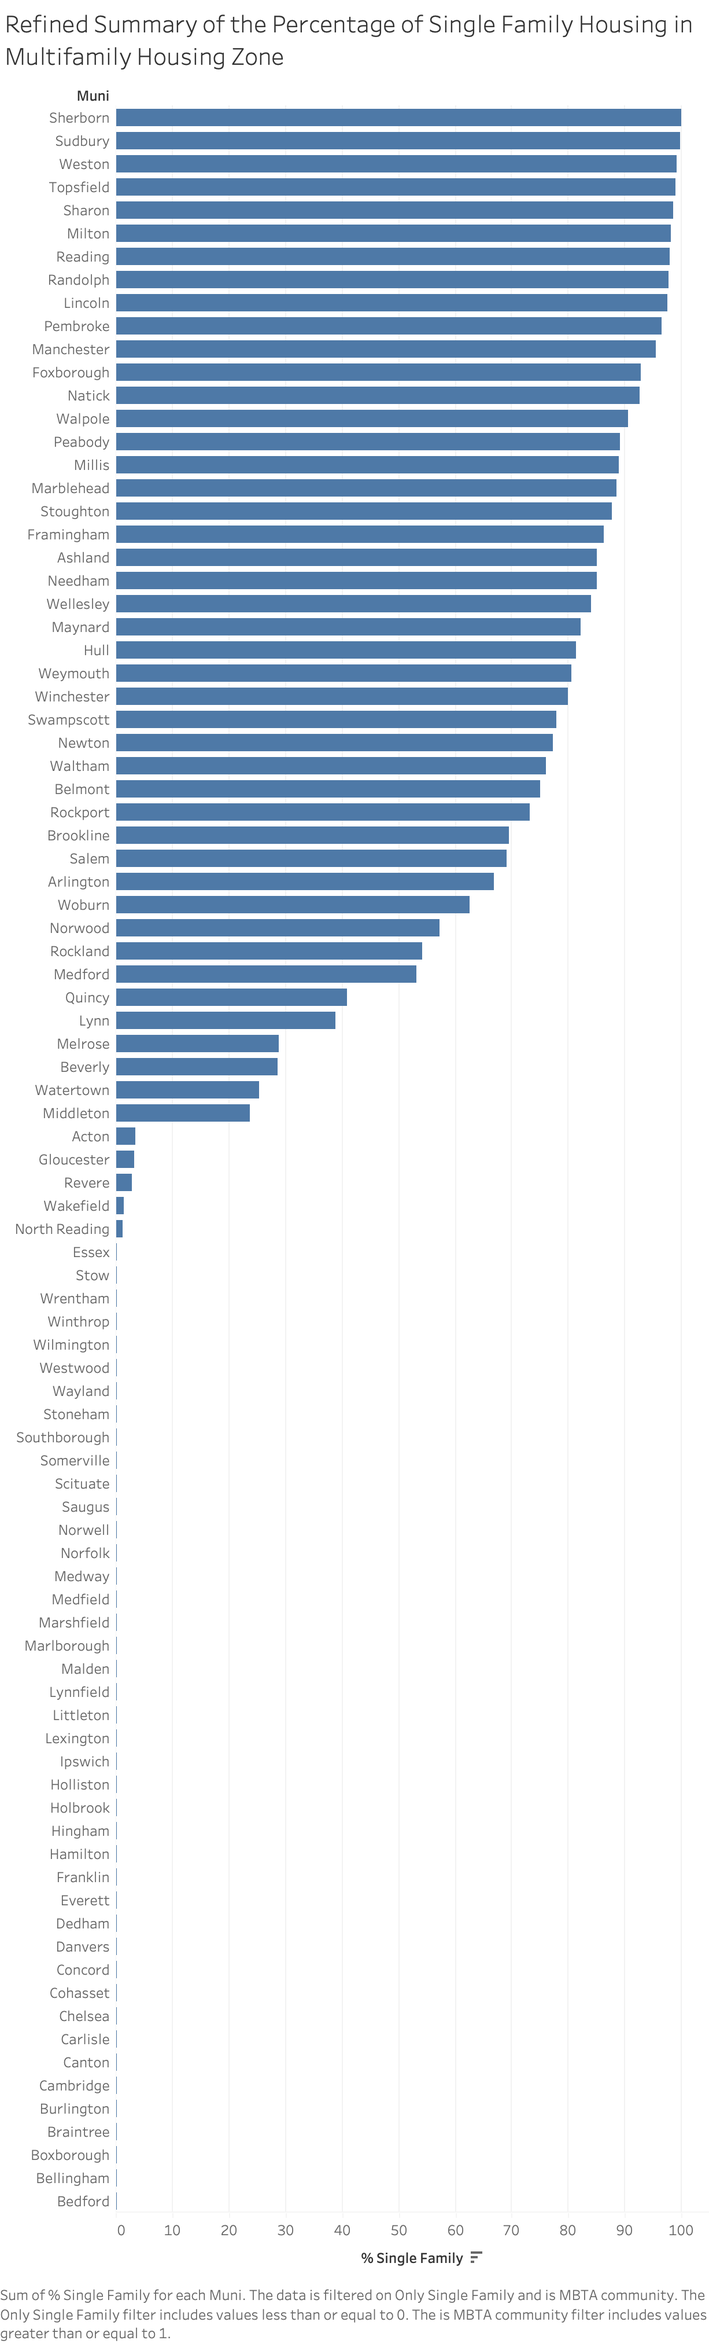
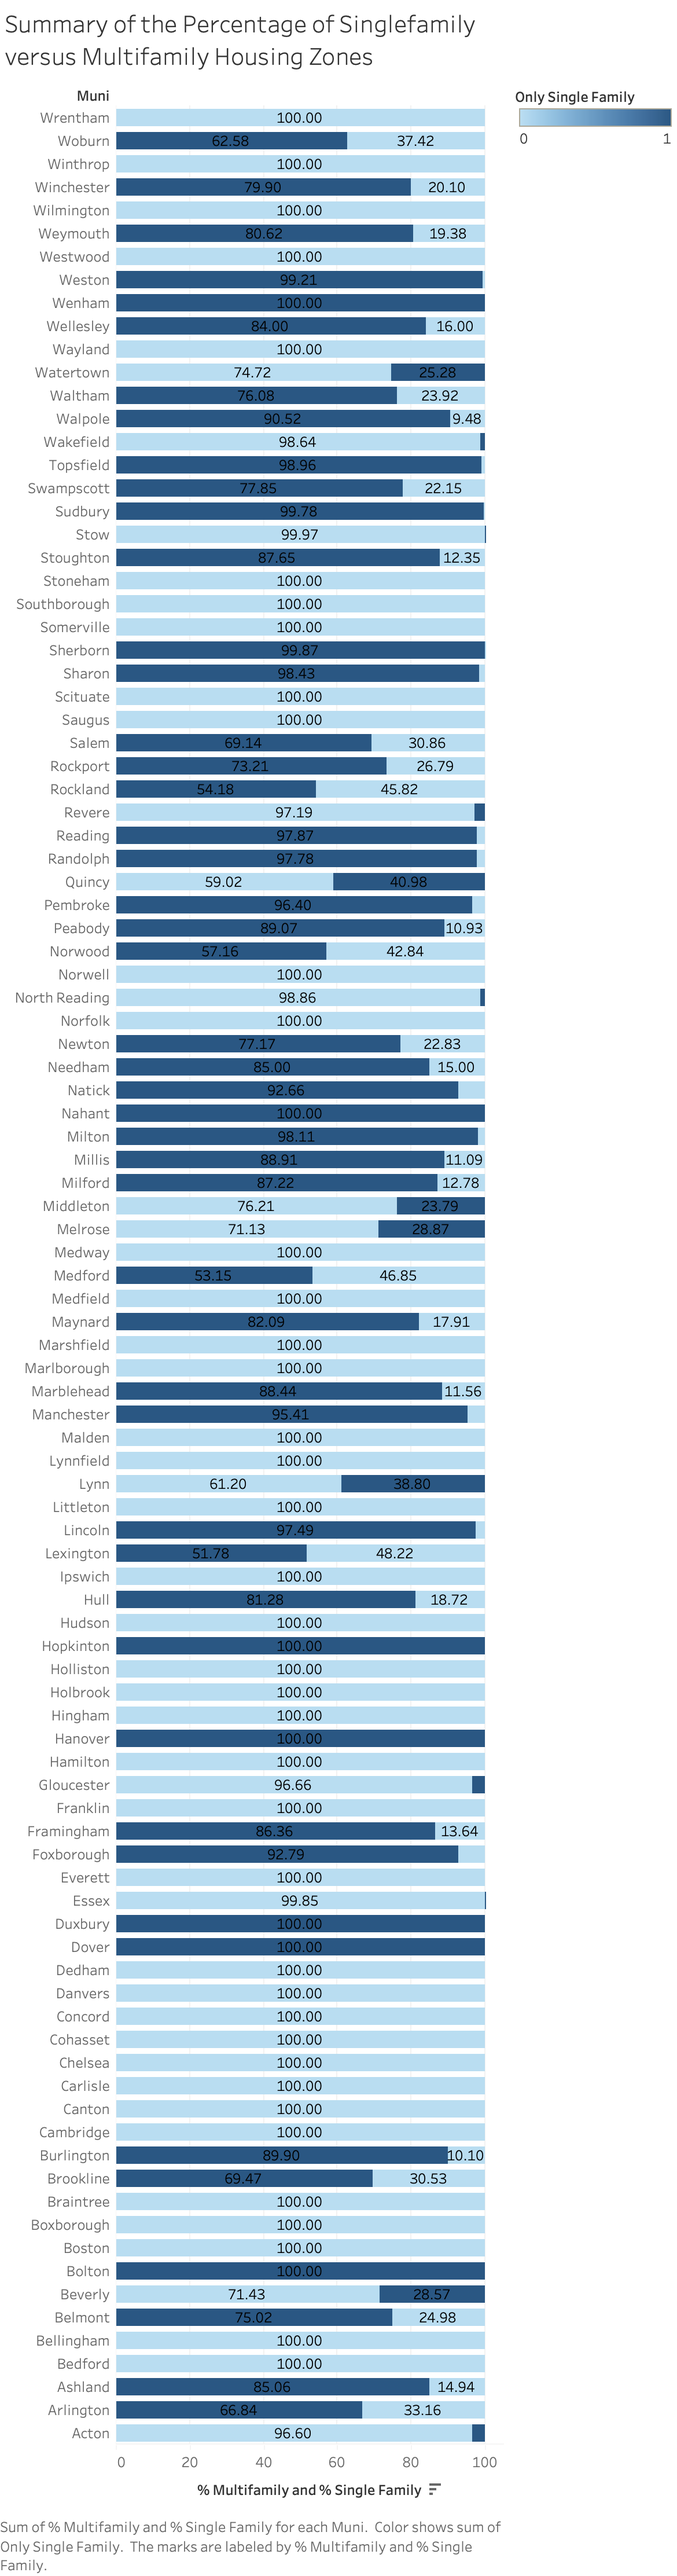
fixed figure 1 to 4

diff --git a/assignment2/index.html b/assignment2/index.html
@@ -41,49 +41,49 @@
 			<figure>
 				<img src="./Sheet 1.png" alt="" />
 				<figcaption>
-				The chart shows the percentage of single-family housing in zones that allow for multifamily housing. However, we can observe some abnormalities in the percentages in many of the cities as they go past 100%. It looks like many cities are duplicated, representing that the municipals are both for only_single_family zone and not for only_single_family zone as seen in the two different shades of blue. Since we are looking at zones allowed for multifamily, it would be logical to filter out the versions of the municipals that indicate only single family housing allowed.
+				The chart shows the percentage of single-family housing in all cities. However, we can observe some abnormalities in the percentages in many of the cities as they go past 100%. It looks like many cities are duplicated, representing that the municipals are both for only singlefamily zone and for multifamily zone as seen in the two different shades of blue. Moving forward, it would be neccessary to separate the different zones if we want to compare single-family and multifamily housings.
 				</figcaption>
 			</figure>
 
 			<figure>
 				<img src="./Sheet 2.png" alt="" />
 				<figcaption>
-				Expanded from Figure 1, this figure illustrates the percentage of single family housings in zones where multifamily housings are allowed. As seen from the chart, while most cities allowed for multifamily housings, the majority of the land is used for single-family housings instead. In many cases, the percentage of single-family houses can go from 80% to 100%. These high rates are concerning as it indicates that the most common houses built are single-family.
+				Expanding on from Figure 1's observation, this figure illustrates the percentage of single-family and multifamily housings with a custom field. The light blue bar represents the multifamily housing zone and the dark blue bar represents the single-family housing zone, each with their respective percentage of allowable land on the label. From the chart, we can see that in the majority of cities where multifamily are allowed, single-family housing zone usually take up a large chunk of the land, leaving a small percentage only to multifamily. In many cases, the percentage of single-family houses can go from 80% to 100%. However, it looks like overall average for single-family zone versus multifamily zone percentages in all cities are about the same as there are many cities with 100% multifamily zones.
 				</figcaption>
 			</figure>
 
 			<figure>
 				<img src="./Sheet 3.png" alt="" />
 				<figcaption>
-				The chart demonstrates the population in different cities based on housing types. The dark blue represents the population who live in single-family housing zone and the light blue represents the population who live in multifamily housing zone. As we can see from the labels on the bars, while the percentage of single-family housing zone are very high compared to the multifamily housing zone, the population are not to the same proportion. The obvious solution to the housing crisis would be to build more multifamily houses in multifamily zone as they can accommondate more people. However, building more multifamily houses can decrease the quality of life as the density in the city increases.
+				The chart illustrates the overall population in different cities based on housing zones. The dark blue represents the population who live in single-family housing zone and the light blue represents the population who live in multifamily housing zone along with their respective percentage of allowable land as labels. From the chart, we can see that multifamily housing zones are usually allowed in largely populated cities like Boston and Cambridge. However, I wonder how much single-family houses compared to multifamily houses are actually built in multifamily housing zone. The obvious solution to the housing crisis would be to build more multifamily houses in multifamily zone as they can accommondate more people. However, building more multifamily houses can decrease the quality of life as the density in the city increases. With only these information, it is hard to tell which type of houses are commonly built.
 				</figcaption>
 			</figure>
 
 			<figure>
 				<img src="./Sheet 4.png" alt="" />
 				<figcaption>
-				The bubble chart illustrates the population under 18 years based on different housing types. The pink bubbles represent the population living in multifamily housing zone and the purple bubbles represent the population living in single-family housing zone. This illustration shocks me as I did not expect how uneven the distribution of dependants living in multifamily housings compared to single-family housings would be. I wonder what is the distributions for other age groups are like.
+				The bubble chart illustrates the population under 18 years based on different housing types. The pink bubbles represent the population living in multifamily housing zone and the purple bubbles represent the population living in single-family housing zone. This illustration shocks me as I did not expect how uneven the distribution of dependants living in multifamily housings compared to single-family housings would be. My inference was that people living in single-family houses are more likely to have more children as they can afford to do so. I wonder what is the distributions for other age groups are like.
 				</figcaption>
 			</figure>
 
 			<figure>
 				<img src="Sheet 5.png" alt="" />
 				<figcaption>
-				The bar graphs compare the different distribution of age groups across different cities, each indicating which housing zone the population is from. The pink bar represents the people living in multifamily housing zone while the dark purple bar represents the people living in single-family housings. Expanding from previous observation, I would expect more retired people (over 65) to live in single-family houses. Yet, that's not the case at all. The charts indicates that people, across all age groups tend to living in multifamily housing zones. Only in some cities (eg. Woburn) would this observation flipped. I wonder what causes the difference in the trend.
+				The bar graphs compare the different distribution of age groups across different cities, each indicating which housing zone the population is from. The pink bar represents the people living in multifamily housing zone while the dark purple bar represents the people living in single-family housings. Expanding from previous observation about the population under 18, I would expect more retired people (over 65) to live in single-family houses because they are usually more established financially with no dependants. Yet, that's not the case at all. The charts indicates that people, across all age groups tend to live in multifamily housing zones. Only in some cities (eg. Woburn) would this observation flipped. I wonder what causes the difference in the trend. Noticably, some rows were excluded as since their populations were recorded as 0.
 				</figcaption>
 			</figure>
 
 			<figure>
 				<img src="Sheet 6.png" alt="" />
 				<figcaption>
-				The chart displays the percentage of households with an income of $100,000 or more with labels. The dark blue represent households living in single-family housings and the light blue represent households living in multifamily housings. I expected to see more of a difference between the percentages between single-family and multifamily households. Yet, the numbers stay about the same in most municipals. 
+				The chart displays the percentage of households with an income of $100,000 or more with labels. The dark blue represent households living in single-family housings and the light blue represent households living in multifamily housings. I expected to see more of a difference between the percentages between single-family and multifamily households because I expect most single-family households to have higher income. Yet, the numbers are about the same in most municipals. 
 				</figcaption>
 			</figure>
-
+p
 			<figure>
-				<img src="IMAGE_FILENAME" alt="" />
+				<img src="Sheet 8.png" alt="" />
 				<figcaption>
-				ENTER IMAGE CAPTION HERE.
+				The chart compares the percentage of non-white population between single-family and multifamily housing zone where pink represents multifamily and purple represents single-family. In almost every municipals where there are both single and multifamily housing, we can see that non-white population is always greater in multifamily housing zone than single-family housing zone. We can argue that by restricting the size of multifamily housing zone, cities can lower the percentage of non-white population in the city. 
 				</figcaption>
 			</figure>
 
